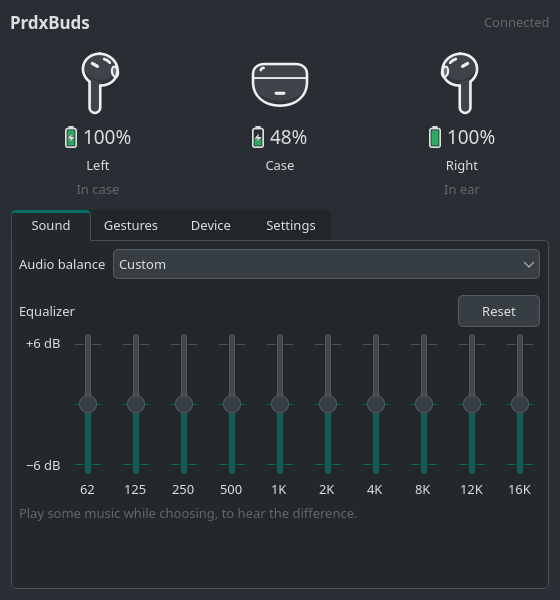
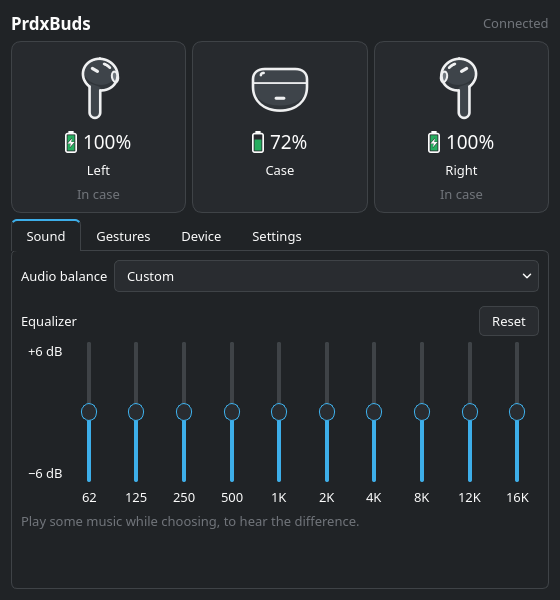
README and screenshots for the new look

diff --git a/README.md b/README.md
@@ -42,6 +42,10 @@ mebuds connects to the buds' control channel by itself when they connect to
 your computer, and lets go when they disconnect. It can warn you when an
 earbud's battery gets low.
 
+It has its own look, based on KDE's Breeze, so it's the same on every system.
+It's light or dark following your system's setting. Start it with
+`--native-style` to use your desktop's widget style instead.
+
 The buds accept only one control connection at a time. While the Xiaomi app on
 your phone is connected to them, mebuds can't get in; it keeps retrying and
 picks up once the phone lets go.
@@ -66,12 +70,9 @@ Pair and connect the earbuds in your system's Bluetooth settings first, then:
 
 - **Linux:** make the AppImage executable and run it:
   `chmod +x mebuds-*.AppImage && ./mebuds-*.AppImage`. It uses BlueZ, the
-  standard Linux Bluetooth stack, and doesn't need root. The AppImage carries
-  its own copy of Qt, so it draws with Qt's Fusion style instead of your
-  desktop's (Breeze on KDE).
-- **Arch Linux / Manjaro:** the package from `packaging/arch` uses the system
-  Qt instead, so mebuds looks like the rest of your desktop and appears in the
-  application menu:
+  standard Linux Bluetooth stack, and doesn't need root.
+- **Arch Linux / Manjaro:** the package from `packaging/arch` installs mebuds
+  with a menu entry, using the system's Qt:
 
   ```
   git clone https://github.com/paradox-ng/mebuds
